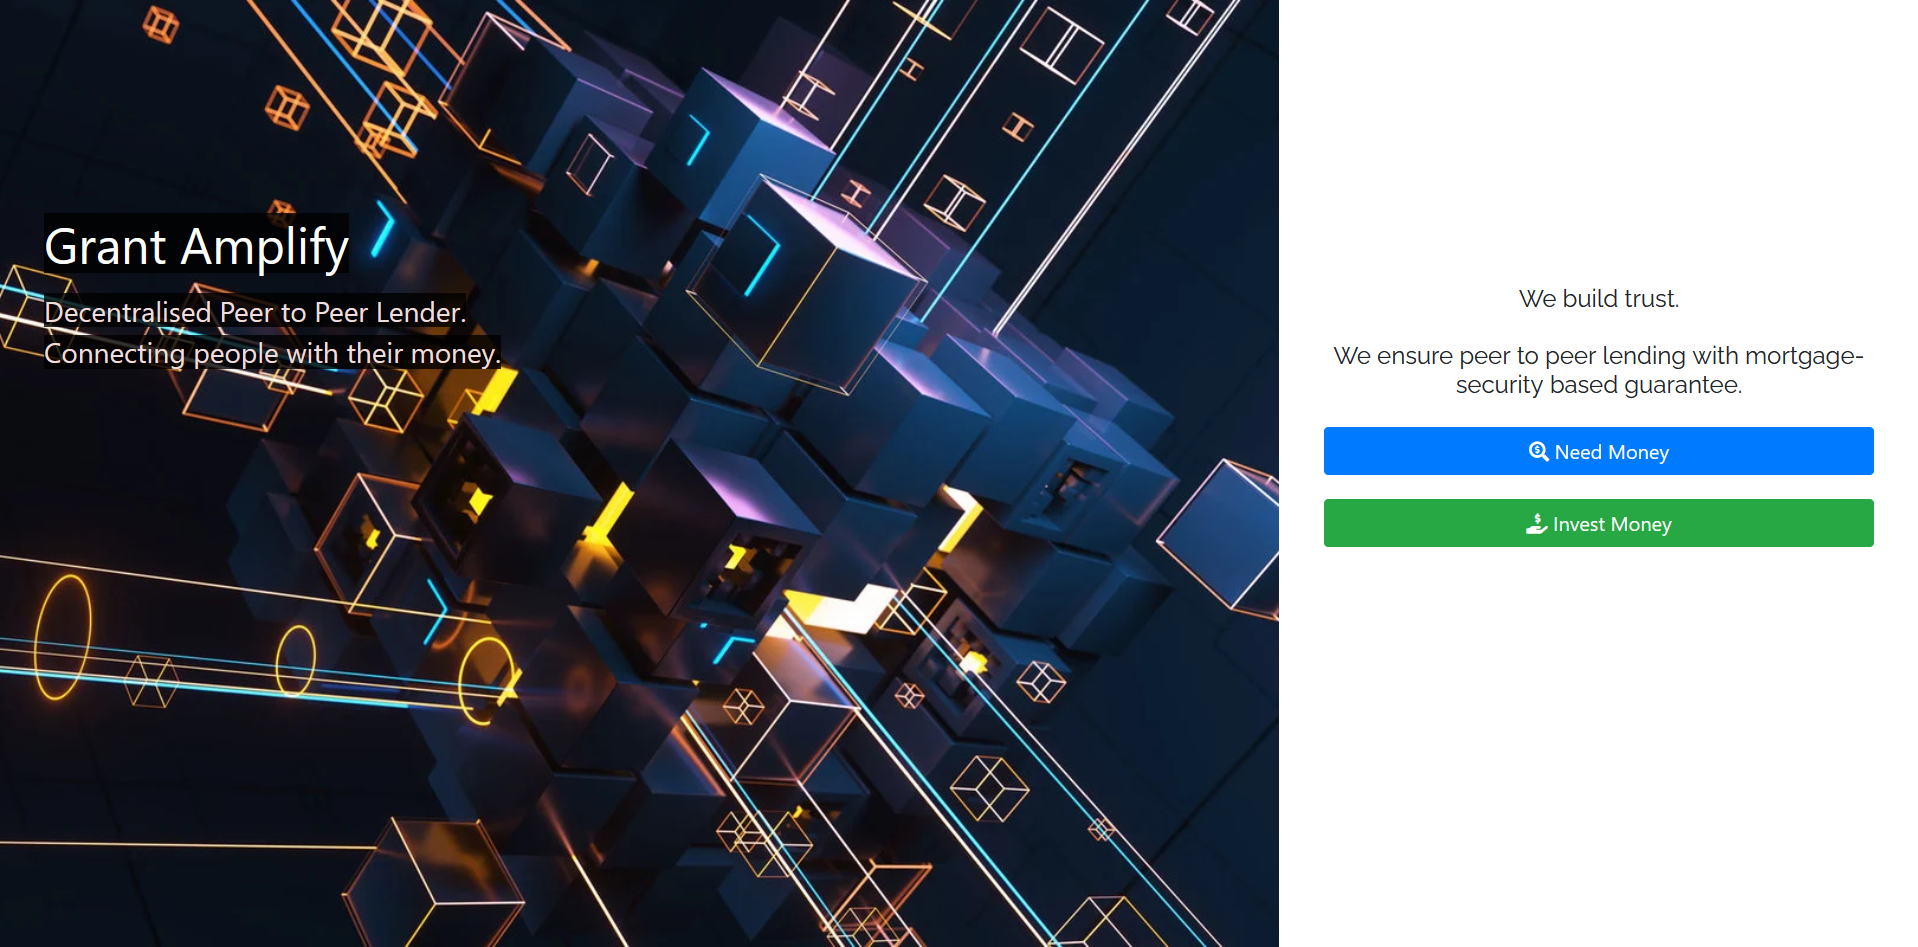
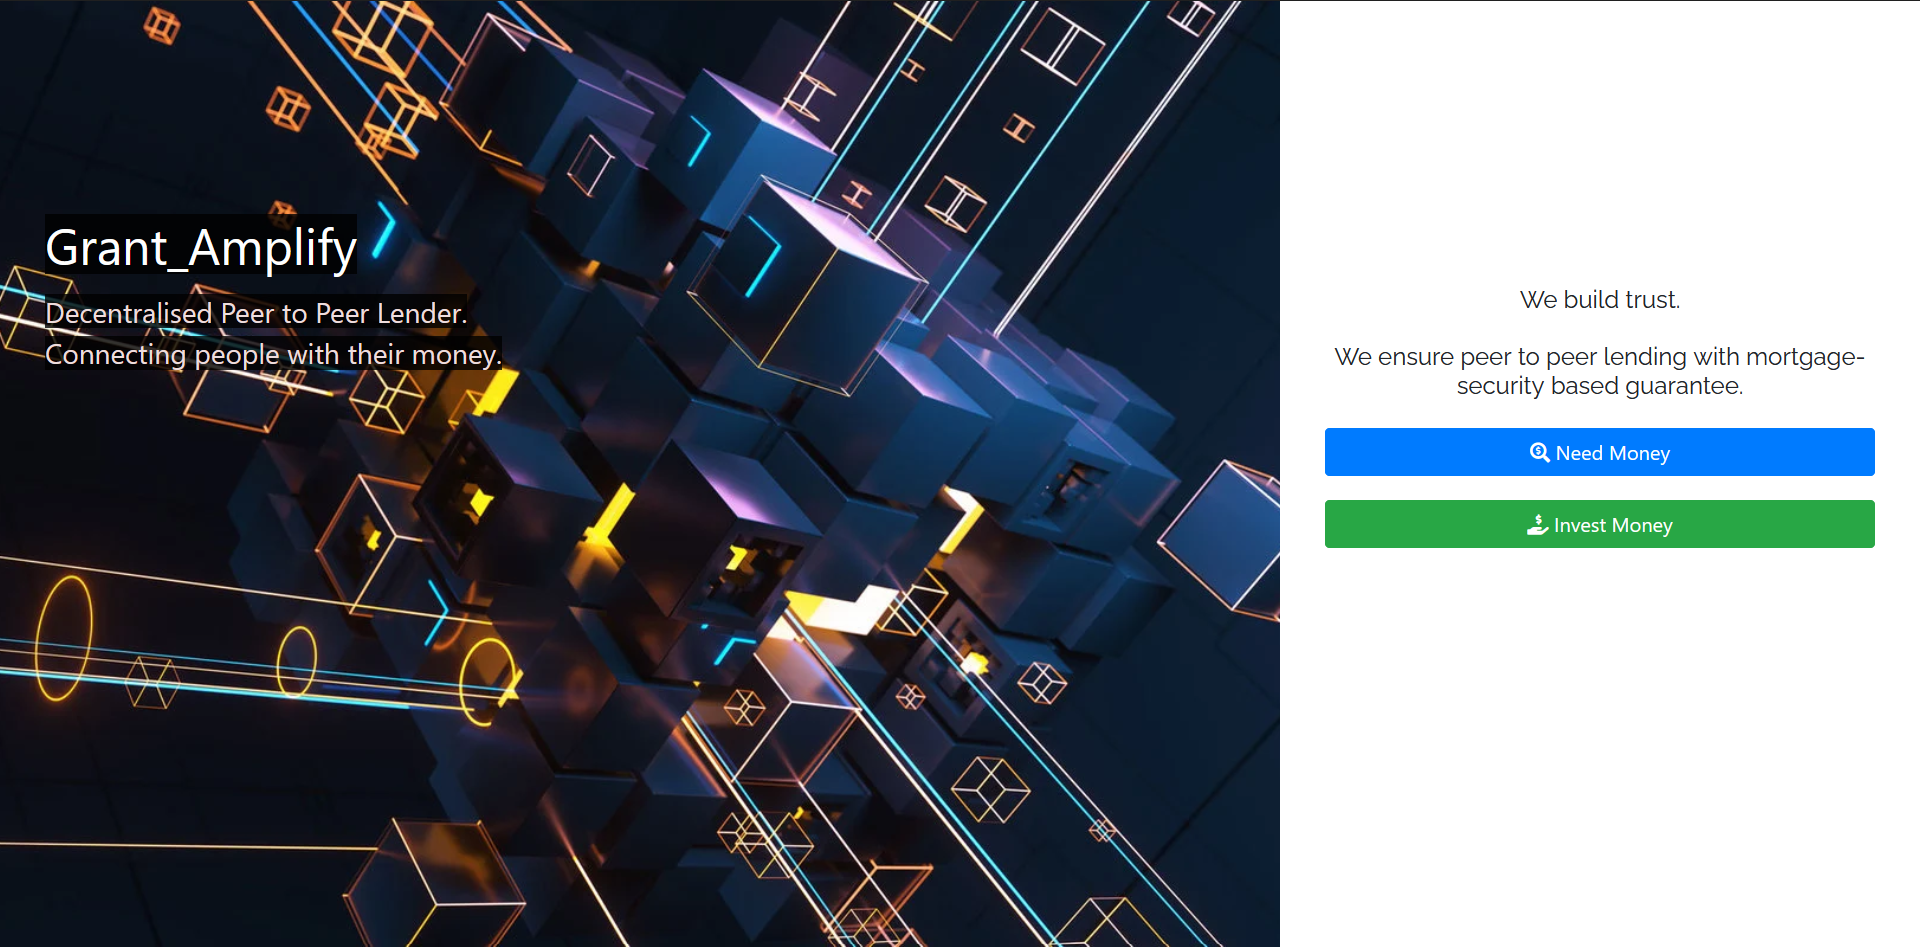
readme images

diff --git a/frontend/index.html b/frontend/index.html
@@ -4,7 +4,7 @@
     <meta charset="UTF-8" />
     <meta http-equiv="X-UA-Compatible" content="IE=edge" />
     <meta name="viewport" content="width=device-width, initial-scale=1.0" />
-    <title>Grant Amplify</title>
+    <title>Grant_Amplify</title>
     <link rel="stylesheet" href="styles.css" />
     <link
       rel="stylesheet"
@@ -34,7 +34,7 @@
         <div class="col-md-8 bg-login">
           <img src="" alt="" />
           <div class="content">
-            <h1 class="brand">Grant Amplify</h1>
+            <h1 class="brand">Grant_Amplify</h1>
             <br />
             <h3>Decentralised Peer to Peer Lender.</h3>
             <br />
